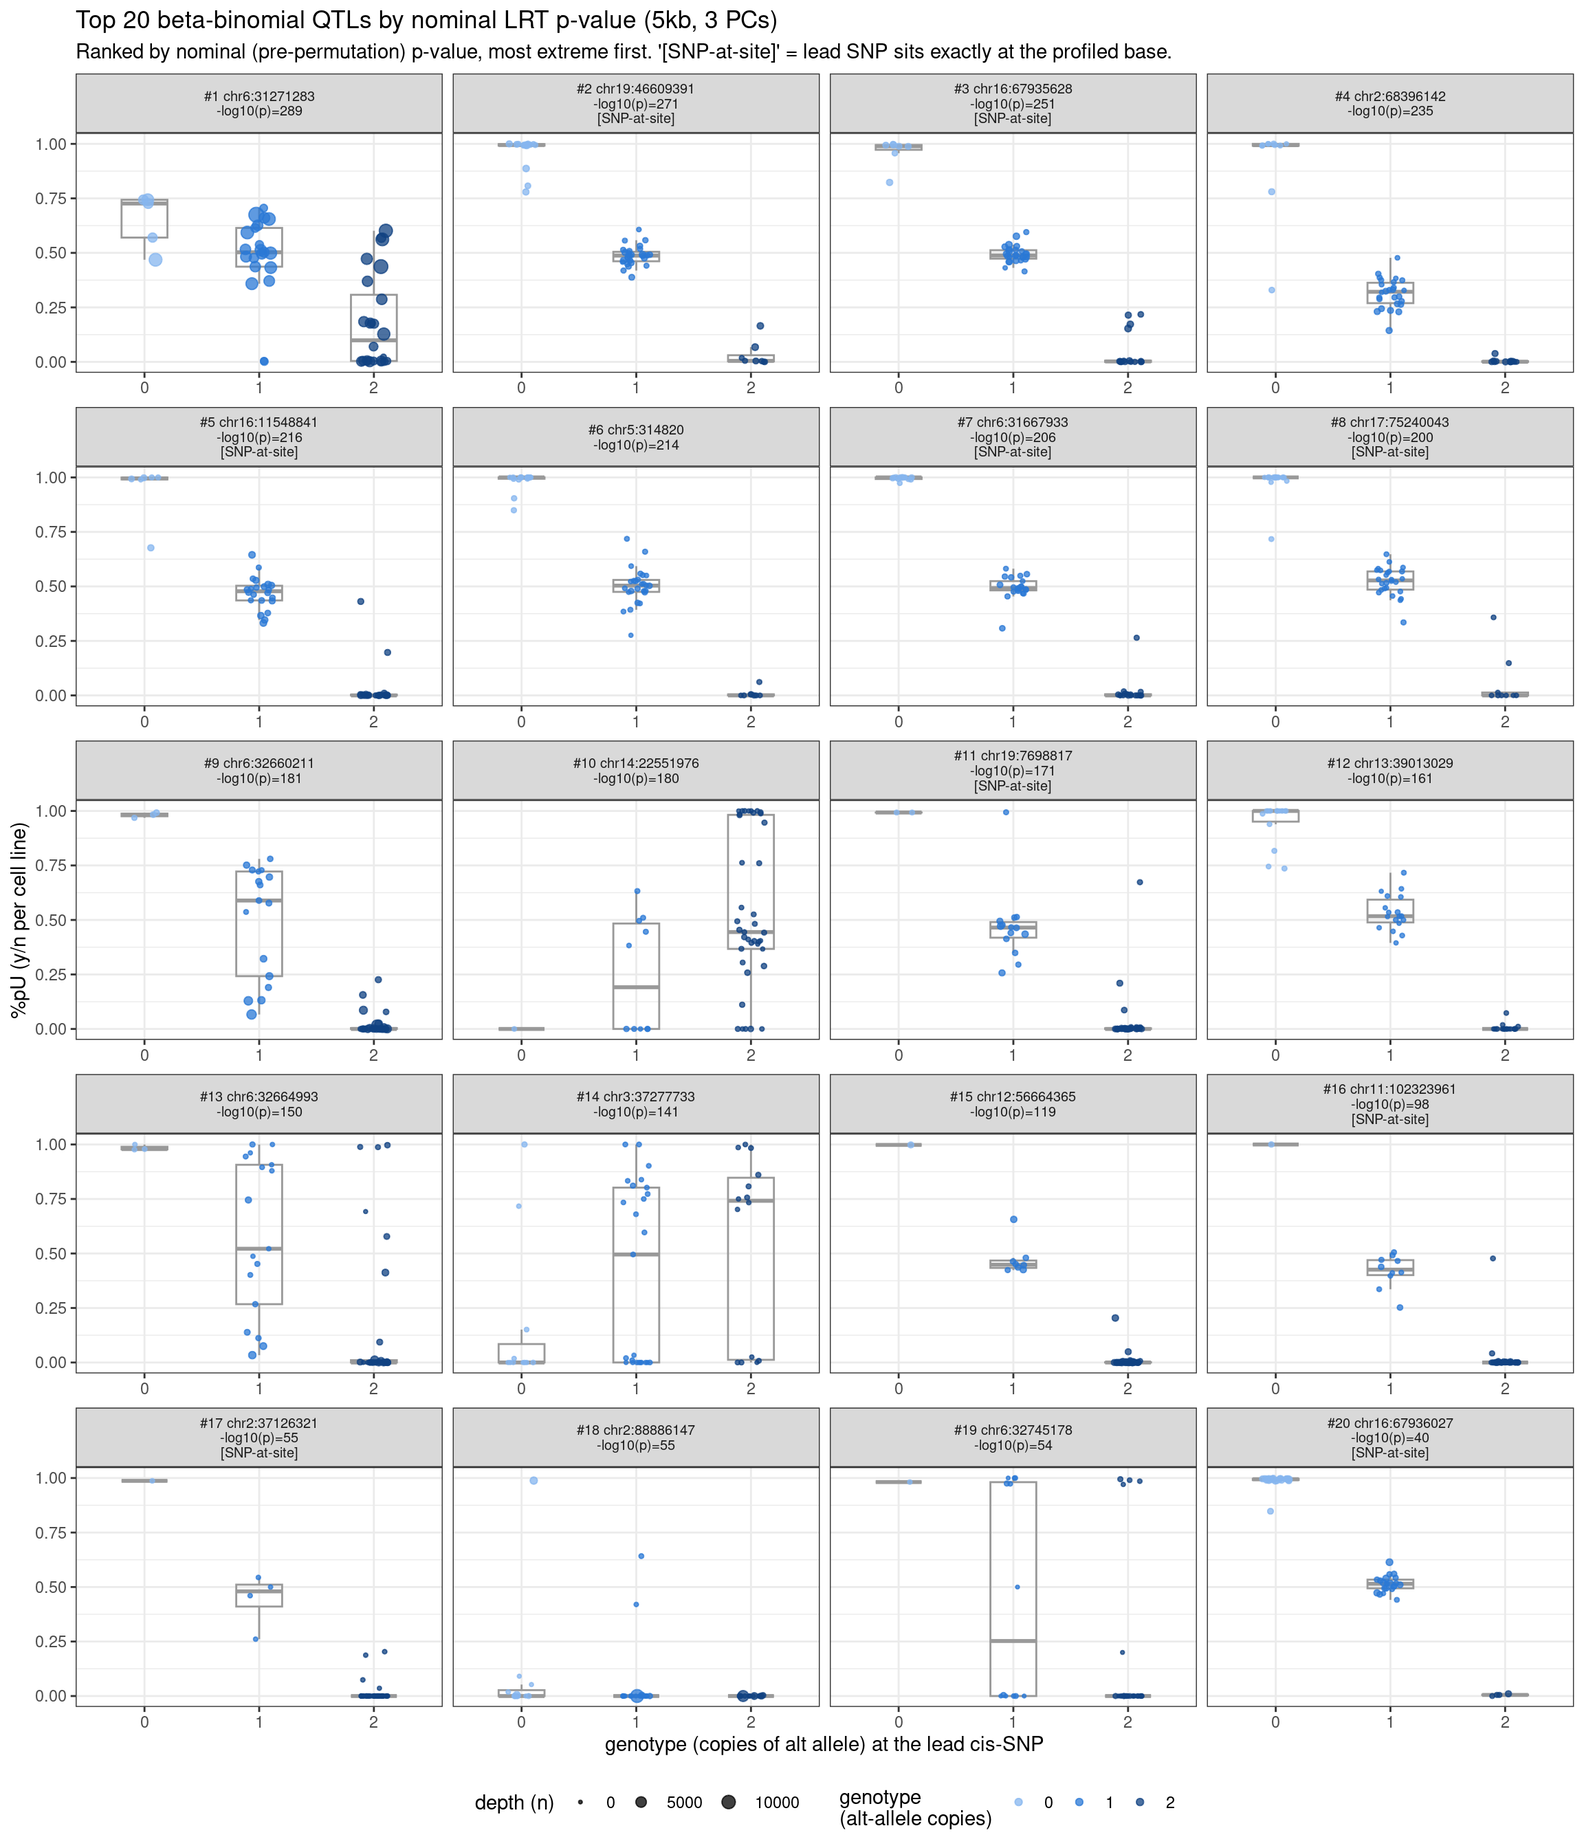
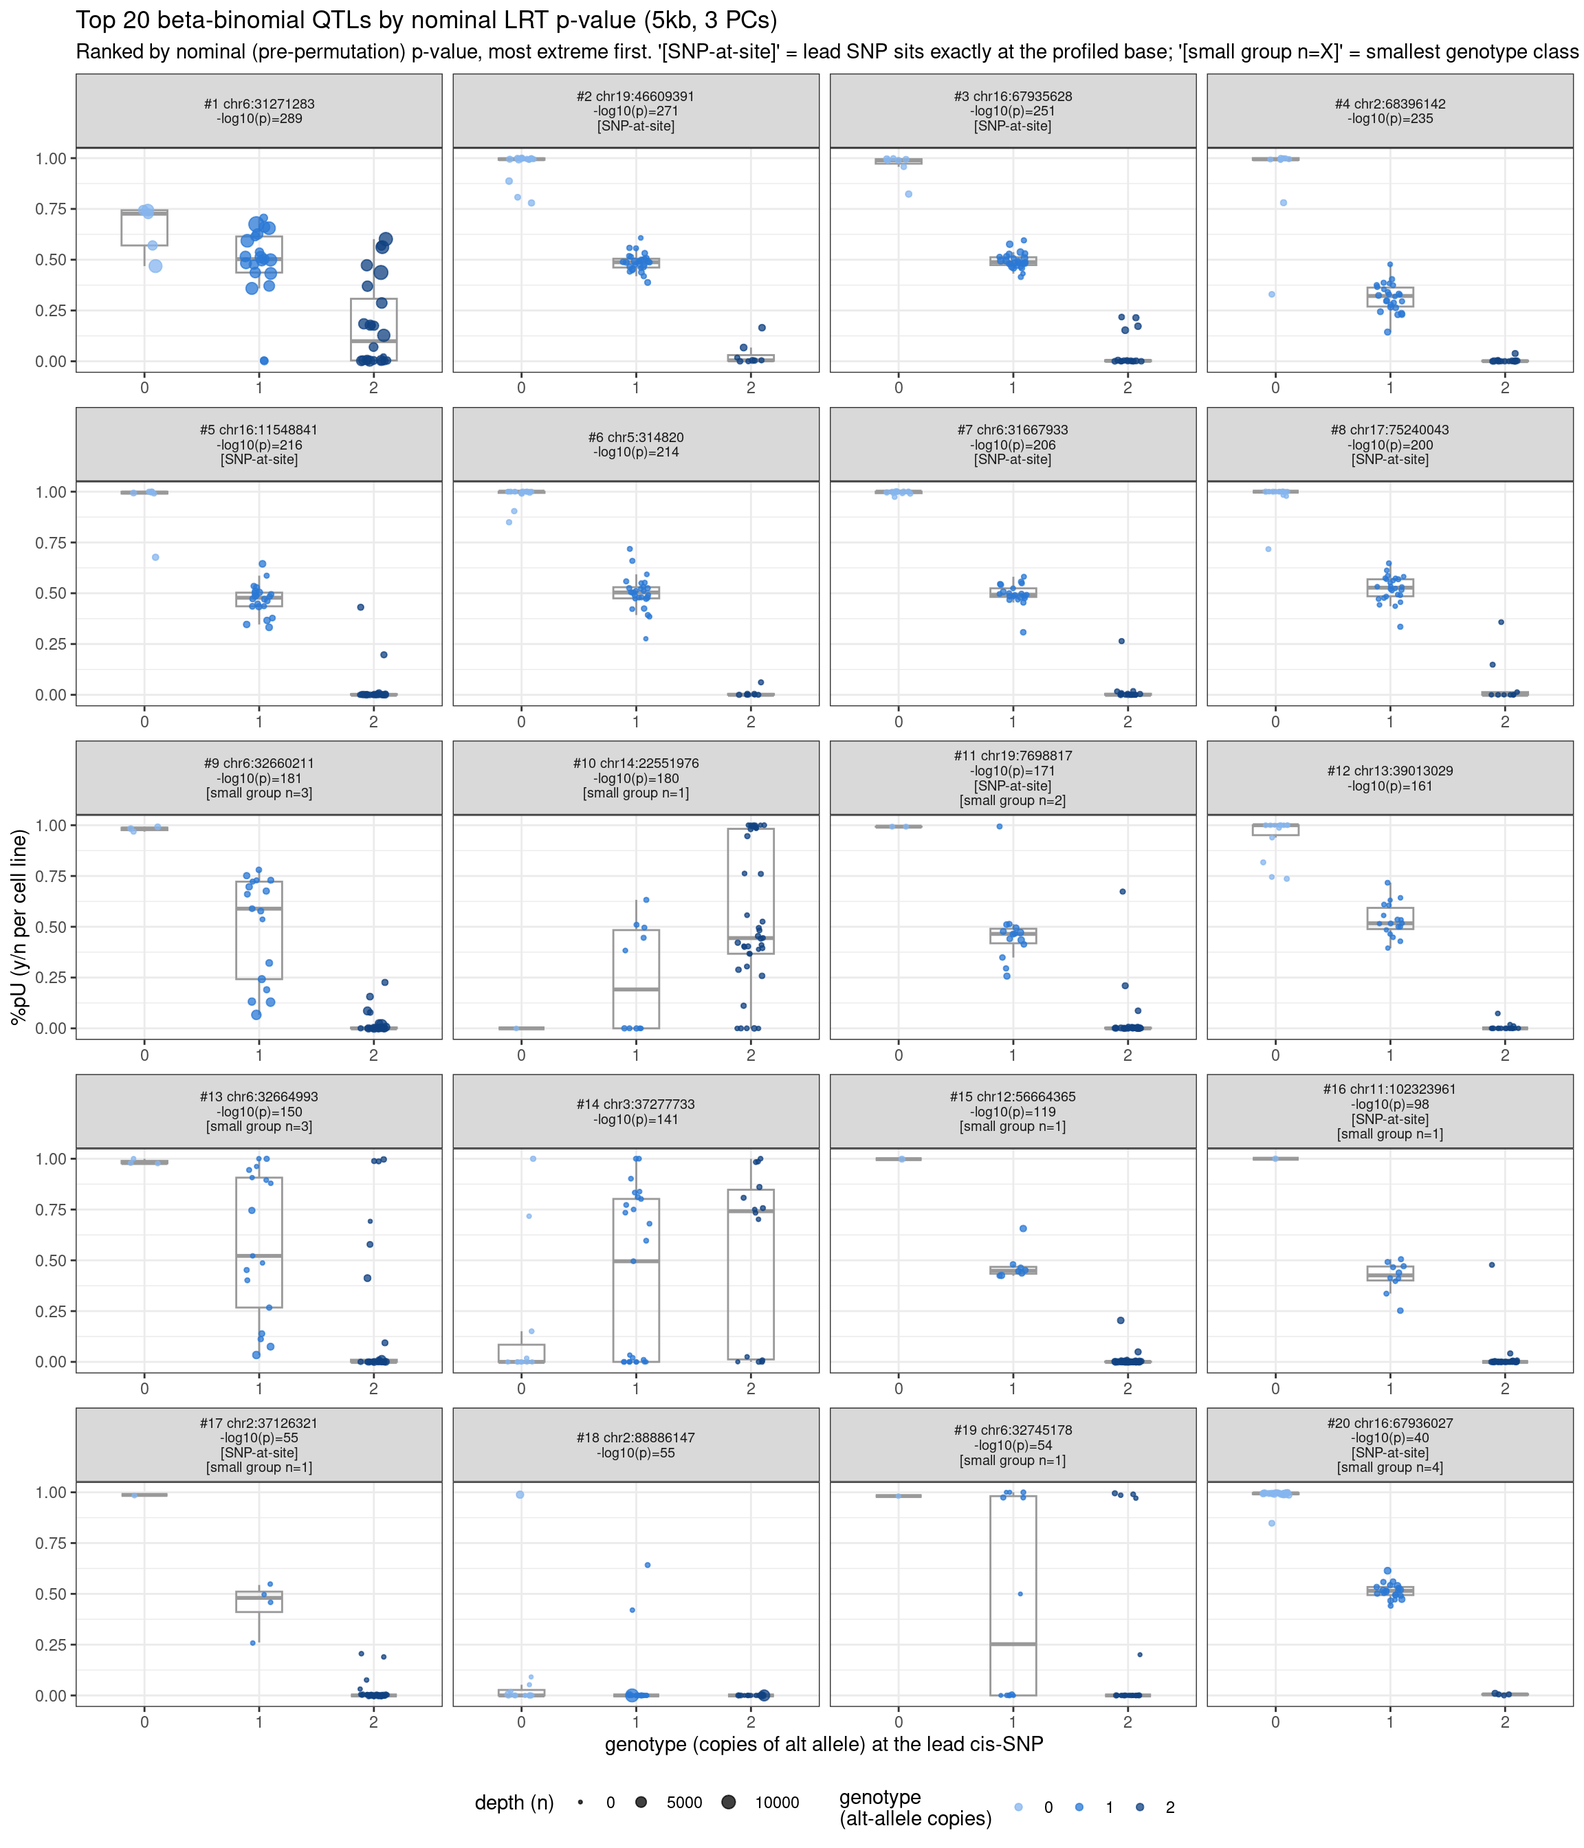
update

diff --git a/docs/qtl_mapping_betabinomial_diagnostic.html b/docs/qtl_mapping_betabinomial_diagnostic.html
@@ -15,7 +15,7 @@
 
 <title>QTL mapping: beta-binomial top-hit diagnostic</title>
 
-<script src="site_libs/header-attrs-2.21/header-attrs.js"></script>
+<script src="site_libs/header-attrs-2.25/header-attrs.js"></script>
 <script src="site_libs/jquery-3.6.0/jquery-3.6.0.min.js"></script>
 <meta name="viewport" content="width=device-width, initial-scale=1" />
 <link href="site_libs/bootstrap-3.3.5/css/cosmo.min.css" rel="stylesheet" />
@@ -31,15 +31,15 @@
        h6 {font-size: 12px;}
        code {color: inherit; background-color: rgba(0, 0, 0, 0.04);}
        pre:not([class]) { background-color: white }</style>
-<script src="site_libs/jqueryui-1.11.4/jquery-ui.min.js"></script>
+<script src="site_libs/jqueryui-1.13.2/jquery-ui.min.js"></script>
 <link href="site_libs/tocify-1.9.1/jquery.tocify.css" rel="stylesheet" />
 <script src="site_libs/tocify-1.9.1/jquery.tocify.js"></script>
 <script src="site_libs/navigation-1.1/tabsets.js"></script>
 <script src="site_libs/navigation-1.1/codefolding.js"></script>
 <link href="site_libs/highlightjs-9.12.0/textmate.css" rel="stylesheet" />
 <script src="site_libs/highlightjs-9.12.0/highlight.js"></script>
-<link href="site_libs/font-awesome-6.2.1/css/all.min.css" rel="stylesheet" />
-<link href="site_libs/font-awesome-6.2.1/css/v4-shims.min.css" rel="stylesheet" />
+<link href="site_libs/font-awesome-6.4.2/css/all.min.css" rel="stylesheet" />
+<link href="site_libs/font-awesome-6.4.2/css/v4-shims.min.css" rel="stylesheet" />
 
 <link rel="icon" href="https://github.com/workflowr/workflowr-assets/raw/main/img/reproducible.png">
 <!-- Add a small amount of space between sections. -->
@@ -441,10 +441,10 @@ changes </a>
 <div id="strongRMarkdownfilestronguncommittedchanges"
 class="panel-collapse collapse">
 <div class="panel-body">
-<p>The R Markdown is untracked by Git. To know which version of the R
-Markdown file created these results, you’ll want to first commit it to
-the Git repo. If you’re still working on the analysis, you can ignore
-this warning. When you’re finished, you can run
+<p>The R Markdown file has unstaged changes. To know which version of
+the R Markdown file created these results, you’ll want to first commit
+it to the Git repo. If you’re still working on the analysis, you can
+ignore this warning. When you’re finished, you can run
 <code>wflow_publish</code> to commit the R Markdown file and build the
 HTML.</p>
 </div>
@@ -537,15 +537,15 @@ project makes it easier to run your code on other machines.</p>
 <div class="panel panel-default">
 <div class="panel-heading">
 <p class="panel-title">
-<a data-toggle="collapse" data-parent="#workflowr-checks" href="#strongRepositoryversionstrongahrefhttpsgithubcomxsun1229pumseqtree64fcefad0cd9a5c931b49195cae438f3bb8ae109targetblank64fcefaa">
+<a data-toggle="collapse" data-parent="#workflowr-checks" href="#strongRepositoryversionstrongahrefhttpsgithubcomxsun1229pumseqtree1e18cd9894825570986b4caf8f501ebdc87f706btargetblank1e18cd9a">
 <span class="glyphicon glyphicon-ok text-success"
 aria-hidden="true"></span> <strong>Repository version:</strong>
-<a href="https://github.com/xsun1229/pumseq/tree/64fcefad0cd9a5c931b49195cae438f3bb8ae109" target="_blank">64fcefa</a>
+<a href="https://github.com/xsun1229/pumseq/tree/1e18cd9894825570986b4caf8f501ebdc87f706b" target="_blank">1e18cd9</a>
 </a>
 </p>
 </div>
 <div
[2 lines of base64/hex data omitted]
 class="panel-collapse collapse">
 <div class="panel-body">
 <p>
@@ -555,7 +555,7 @@ reproducibility.
 </p>
 <p>
 The results in this page were generated with repository version
-<a href="https://github.com/xsun1229/pumseq/tree/64fcefad0cd9a5c931b49195cae438f3bb8ae109" target="_blank">64fcefa</a>.
+<a href="https://github.com/xsun1229/pumseq/tree/1e18cd9894825570986b4caf8f501ebdc87f706b" target="_blank">1e18cd9</a>.
 See the <em>Past versions</em> tab to see a history of the changes made
 to the R Markdown and HTML files.
 </p>
@@ -572,11 +572,8 @@ were generated:
 Ignored files:
     Ignored:    analysis/qtl_mapping_summary_cache/
 
-Untracked files:
-    Untracked:  analysis/qtl_mapping_betabinomial_diagnostic.Rmd
-
 Unstaged changes:
-    Modified:   analysis/index.Rmd
+    Modified:   analysis/qtl_mapping_betabinomial_diagnostic.Rmd
 
 </code></pre>
 <p>
@@ -591,10 +588,75 @@ have uncommitted changes.
 <hr>
 </div>
 <div id="versions" class="tab-pane fade">
+
 <p>
-There are no past versions. Publish this analysis with
-<code>wflow_publish()</code> to start tracking its development.
+These are the previous versions of the repository in which changes were
+made to the R Markdown
+(<code>analysis/qtl_mapping_betabinomial_diagnostic.Rmd</code>) and HTML
+(<code>docs/qtl_mapping_betabinomial_diagnostic.html</code>) files. If
+you’ve configured a remote Git repository (see
+<code>?wflow_git_remote</code>), click on the hyperlinks in the table
+below to view the files as they were in that past version.
 </p>
+<div class="table-responsive">
+<table class="table table-condensed table-hover">
+<thead>
+<tr>
+<th>
+File
+</th>
+<th>
+Version
+</th>
+<th>
+Author
+</th>
+<th>
+Date
+</th>
+<th>
+Message
+</th>
+</tr>
+</thead>
+<tbody>
+<tr>
+<td>
+Rmd
+</td>
+<td>
+<a href="https://github.com/xsun1229/pumseq/blob/caa960227425ca1a770f825570fe56446d51037f/analysis/qtl_mapping_betabinomial_diagnostic.Rmd" target="_blank">caa9602</a>
+</td>
+<td>
+XSun
+</td>
+<td>
+2026-07-31
+</td>
+<td>
+update
+</td>
+</tr>
+<tr>
+<td>
+html
+</td>
+<td>
+<a href="https://rawcdn.githack.com/xsun1229/pumseq/caa960227425ca1a770f825570fe56446d51037f/docs/qtl_mapping_betabinomial_diagnostic.html" target="_blank">caa9602</a>
+</td>
+<td>
+XSun
+</td>
+<td>
+2026-07-31
+</td>
+<td>
+update
+</td>
+</tr>
+</tbody>
+</table>
+</div>
 <hr>
 </div>
 </div>
@@ -617,16 +679,14 @@ WINDOW_KB &lt;- 5
 NPCS      &lt;- 3
 N_TOP     &lt;- 20
 MIN_GRP   &lt;- 5   # flag threshold for &quot;small genotype group&quot; in the pattern summary below</code></pre>
-<div id="motivation" class="section level1">
-<h1>Motivation</h1>
-<p>My advisor flagged that a number of sites reach implausibly small
-p-values (<code>-log10(p) &gt; 100</code>) given the small sample size
-(50 cell lines) and generally modest expected QTL effect sizes, and
-suggested picking a few top hits and plotting %pU by genotype directly
-to build intuition for what’s driving them. This page does that for the
-<strong>beta-binomial LRT model at its best-performing config (5kb
-window, 3 PCs)</strong> — the top 20 sites by nominal
-(pre-permutation-correction) LRT p-value.</p>
+<p>A number of sites reach implausibly small p-values
+(<code>-log10(p) &gt; 100</code>) given the small sample size (50 cell
+lines).</p>
+<p>We pick a few top hits and plot %pU by genotype directly to build
+intuition for what’s driving them.</p>
+<p>This page does that for the <strong>beta-binomial LRT model at its
+best-performing config (5kb window, 3 PCs)</strong> — the top 20 sites
+by nominal (pre-permutation-correction) LRT p-value.</p>
 <p>Two candidate artifacts motivated this check:</p>
 <ol style="list-style-type: decimal">
 <li><strong>Small genotype-group separation</strong> — a genotype class
@@ -639,7 +699,6 @@ called at that position, masquerading as a huge modification-QTL effect.
 This is the same phenomenon as the well-known SNP-at-CpG confound in
 bisulfite-based mQTL studies.</li>
 </ol>
-</div>
 <div id="snp-at-site-rate-among-significant-hits"
 class="section level1">
 <h1>1. SNP-at-site rate among significant hits</h1>
@@ -714,11 +773,14 @@ rows &lt;- rbindlist(lapply(seq_len(nrow(top20)), function(i) {
   pi_v &lt;- y / n
   grp_tab &lt;- table(g)
   min_grp &lt;- min(grp_tab)
+  flags &lt;- paste0(
+    if (s$lead_pos == s$pos) &quot;\n[SNP-at-site]&quot; else &quot;&quot;,
+    if (min_grp &lt; MIN_GRP) sprintf(&quot;\n[small group n=%d]&quot;, min_grp) else &quot;&quot;
+  )
   data.table(
     rank = s$rank,
     site_lab = sprintf(&quot;#%d chr%s:%.0f\n-log10(p)=%.0f%s&quot;,
-                        s$rank, s$ref, s$pos, -log10(max(s$nominal_min_p, 1e-300)),
-                        if (s$lead_pos == s$pos) &quot;\n[SNP-at-site]&quot; else &quot;&quot;),
+                        s$rank, s$ref, s$pos, -log10(max(s$nominal_min_p, 1e-300)), flags),
     g = factor(g, levels = 0:2), pi = pi_v, n = n,
     snp_at_site = s$lead_pos == s$pos, min_grp = min_grp
   )
@@ -736,10 +798,47 @@ ggplot(rows, aes(x = g, y = pi, color = g)) +
   labs(x = &quot;genotype (copies of alt allele) at the lead cis-SNP&quot;, y = &quot;%pU (y/n per cell line)&quot;,
        title = sprintf(&quot;Top %d beta-binomial QTLs by nominal LRT p-value (%dkb, %d PCs)&quot;,
                        N_TOP, WINDOW_KB, NPCS),
-       subtitle = &quot;Ranked by nominal (pre-permutation) p-value, most extreme first. &#39;[SNP-at-site]&#39; = lead SNP sits exactly at the profiled base.&quot;) +
+       subtitle = &quot;Ranked by nominal (pre-permutation) p-value, most extreme first. &#39;[SNP-at-site]&#39; = lead SNP sits exactly at the profiled base; &#39;[small group n=X]&#39; = smallest genotype class has X &lt; 5 cell lines.&quot;) +
   theme_bw(base_size = 11) +
   theme(legend.position = &quot;bottom&quot;, strip.text = element_text(size = 7.5))</code></pre>
 <p><img src="figure/qtl_mapping_betabinomial_diagnostic.Rmd/top20-select-1.png" width="1152" style="display: block; margin: auto;" /></p>
+<p>
+<button type="button" class="btn btn-default btn-xs btn-workflowr btn-workflowr-fig" data-toggle="collapse" data-target="#fig-top20-select-1">
+Past versions of top20-select-1.png
+</button>
+</p>
+<div id="fig-top20-select-1" class="collapse">
+<div class="table-responsive">
+<table class="table table-condensed table-hover">
+<thead>
+<tr>
+<th>
+Version
+</th>
+<th>
+Author
+</th>
+<th>
+Date
+</th>
+</tr>
+</thead>
+<tbody>
+<tr>
+<td>
+<a href="https://github.com/xsun1229/pumseq/blob/caa960227425ca1a770f825570fe56446d51037f/docs/figure/qtl_mapping_betabinomial_diagnostic.Rmd/top20-select-1.png" target="_blank">caa9602</a>
+</td>
+<td>
+XSun
+</td>
+<td>
+2026-07-31
+</td>
+</tr>
+</tbody>
+</table>
+</div>
+</div>
 </div>
 <div id="pattern-summary-across-these-20-sites" class="section level1">
 <h1>3. Pattern summary across these 20 sites</h1>
@@ -911,29 +1010,25 @@ knitr::kable(cat_tbl, caption = &quot;Category counts among the top 20&quot;)</c
 modification site itself, and <strong>5</strong> more have a genotype
 class with fewer than 5 cell lines (and no SNP-at-site overlap) —
 together accounting for <strong>14/20</strong> of the most extreme
-“hits” in this model. Visually, nearly every panel above shows the same
-suspiciously clean pattern: genotype 0 near %pU=1, genotype 1 near
-%pU=0.5, genotype 2 near %pU=0, with almost no within-group scatter —
-not the noisier, more modest dose-response shape expected of a real
-cis-regulatory effect at this sample size.</p>
-<p><strong>The remaining 6 sites are not a clean “these are fine”
-bucket.</strong> Most of them (#1, #4, #6, #12 — none of these are on
-chr6) show the <em>exact same</em> suspiciously clean staircase despite
-having normal-sized genotype groups and no SNP-at-site overlap, meaning
-the two mechanisms characterized here do not explain everything —
-something else (e.g. a nearby-but-not-exact-position variant still
-perturbing the assay’s base-calling, or another unmodeled technical
-effect) is likely producing the same signature. Only two sites (#14
-<code>chr3:37277733</code>, #18 <code>chr2:88886147</code>) look
-qualitatively different: noisy, near-uniform scatter across all three
-genotype groups with no clean separation, or driven by a single outlier
-cell line — closer to what a null or borderline result should look like,
-and a useful visual contrast against the rest of this page. So the two
-flagged mechanisms are a partial, not complete, explanation, and the
-planned fixes (excluding cis-SNPs that overlap the profiled base,
-requiring a minimum sample count per genotype class) should be treated
-as a first pass, re-checked against a fresh top-20 plot after
-re-running.</p>
+“hits” in this model.</p>
+<p>Visually, nearly every panel above shows the same pattern: genotype 0
+near %pU=1, genotype 1 near %pU=0.5, genotype 2 near %pU=0.</p>
+<!-- **The remaining 6 sites -->
+<!-- are not a clean "these are fine" bucket.** Most of them (#1, #4, #6, #12 — -->
+<!-- none of these are on chr6) show the same staircase -->
+<!-- despite having normal-sized genotype groups and no SNP-at-site overlap, -->
+<!-- meaning the two mechanisms characterized here do not explain everything — -->
+<!-- something else (e.g. a nearby-but-not-exact-position variant still perturbing -->
+<!-- the assay's base-calling, or another unmodeled technical effect) is likely -->
+<!-- producing the same signature. Only two sites (#14 `chr3:37277733`, #18 -->
+<!-- `chr2:88886147`) look qualitatively different: noisy, near-uniform scatter -->
+<!-- across all three genotype groups with no clean separation, or driven by a -->
+<!-- single outlier cell line — closer to what a null or borderline result should -->
+<!-- look like, and a useful visual contrast against the rest of this page. So the -->
+<!-- two flagged mechanisms are a partial, not complete, explanation, and the -->
+<!-- planned fixes (excluding cis-SNPs that overlap the profiled base, requiring a -->
+<!-- minimum sample count per genotype class) should be treated as a first pass, -->
+<!-- re-checked against a fresh top-20 plot after re-running. -->
 <br>
 <p>
 <button type="button" class="btn btn-default btn-workflowr btn-workflowr-sessioninfo" data-toggle="collapse" data-target="#workflowr-sessioninfo" style="display: block;">
@@ -945,39 +1040,35 @@ Session information
 <pre class="r"><code>sessionInfo()</code></pre>
 <pre><code>R version 4.2.0 (2022-04-22)
 Platform: x86_64-pc-linux-gnu (64-bit)
-Running under: Red Hat Enterprise Linux 8.4 (Ootpa)
+Running under: CentOS Linux 7 (Core)
 
 Matrix products: default
-BLAS/LAPACK: /software/openblas-0.3.13-el8-x86_64/lib/libopenblas_skylakexp-r0.3.13.so
+BLAS/LAPACK: /software/openblas-0.3.13-el7-x86_64/lib/libopenblas_haswellp-r0.3.13.so
 
 locale:
- [1] LC_CTYPE=C.UTF-8       LC_NUMERIC=C           LC_TIME=C.UTF-8       
- [4] LC_COLLATE=C.UTF-8     LC_MONETARY=C.UTF-8    LC_MESSAGES=C.UTF-8   
- [7] LC_PAPER=C.UTF-8       LC_NAME=C              LC_ADDRESS=C          
-[10] LC_TELEPHONE=C         LC_MEASUREMENT=C.UTF-8 LC_IDENTIFICATION=C   
+[1] C
 
 attached base packages:
 [1] stats     graphics  grDevices utils     datasets  methods   base     
 
 other attached packages:
-[1] ggplot2_3.4.2     data.table_1.14.4 workflowr_1.7.0  
+[1] ggplot2_4.0.3     data.table_1.14.2
 
 loaded via a namespace (and not attached):
- [1] tidyselect_1.2.0  xfun_0.38         bslib_0.3.1       colorspace_2.0-3 
- [5] vctrs_0.6.1       generics_0.1.3    htmltools_0.5.7   yaml_2.3.5       
- [9] utf8_1.2.2        rlang_1.1.2       R.oo_1.24.0       jquerylib_0.1.4  
-[13] later_1.3.0       pillar_1.9.0      glue_1.6.2        withr_2.5.0      
-[17] R.utils_2.11.0    lifecycle_1.0.4   stringr_1.5.0     munsell_0.5.0    
-[21] gtable_0.3.0      R.methodsS3_1.8.1 evaluate_0.15     labeling_0.4.2   
-[25] knitr_1.42        callr_3.7.0       fastmap_1.1.0     httpuv_1.6.5     
-[29] ps_1.7.0          fansi_1.0.3       highr_0.9         Rcpp_1.0.11      
-[33] promises_1.2.0.1  scales_1.2.0      jsonlite_1.8.7    farver_2.1.0     
-[37] fs_1.5.2          digest_0.6.29     stringi_1.7.6     processx_3.5.3   
-[41] dplyr_1.1.2       getPass_0.2-2     rprojroot_2.0.3   grid_4.2.0       
-[45] cli_3.6.2         tools_4.2.0       magrittr_2.0.3    sass_0.4.1       
-[49] tibble_3.2.1      whisker_0.4       pkgconfig_2.0.3   rmarkdown_2.21   
-[53] httr_1.4.5        rstudioapi_0.14   R6_2.5.1          git2r_0.30.1     
-[57] compiler_4.2.0   </code></pre>
+ [1] Rcpp_1.0.12        highr_0.9          RColorBrewer_1.1-3 pillar_1.9.0      
+ [5] compiler_4.2.0     bslib_0.3.1        later_1.3.0        jquerylib_0.1.4   
+ [9] git2r_0.30.1       workflowr_1.7.0    R.methodsS3_1.8.1  R.utils_2.11.0    
+[13] tools_4.2.0        digest_0.6.29      gtable_0.3.6       jsonlite_1.8.0    
+[17] evaluate_0.15      lifecycle_1.0.4    tibble_3.2.1       pkgconfig_2.0.3   
+[21] rlang_1.1.2        cli_3.6.1          rstudioapi_0.13    yaml_2.3.5        
+[25] xfun_0.41          fastmap_1.1.0      withr_2.5.0        dplyr_1.1.4       
+[29] stringr_1.5.1      knitr_1.39         generics_0.1.4     fs_1.5.2          
+[33] vctrs_0.6.5        sass_0.4.1         tidyselect_1.2.0   grid_4.2.0        
+[37] rprojroot_2.0.3    glue_1.6.2         R6_2.5.1           fansi_1.0.3       
+[41] rmarkdown_2.25     farver_2.1.0       magrittr_2.0.3     whisker_0.4       
+[45] scales_1.4.0       promises_1.2.0.1   htmltools_0.5.2    dichromat_2.0-0.1 
+[49] httpuv_1.6.5       labeling_0.4.2     S7_0.2.0           utf8_1.2.2        
+[53] stringi_1.7.6      R.oo_1.24.0       </code></pre>
 </div>
 </div>
 
